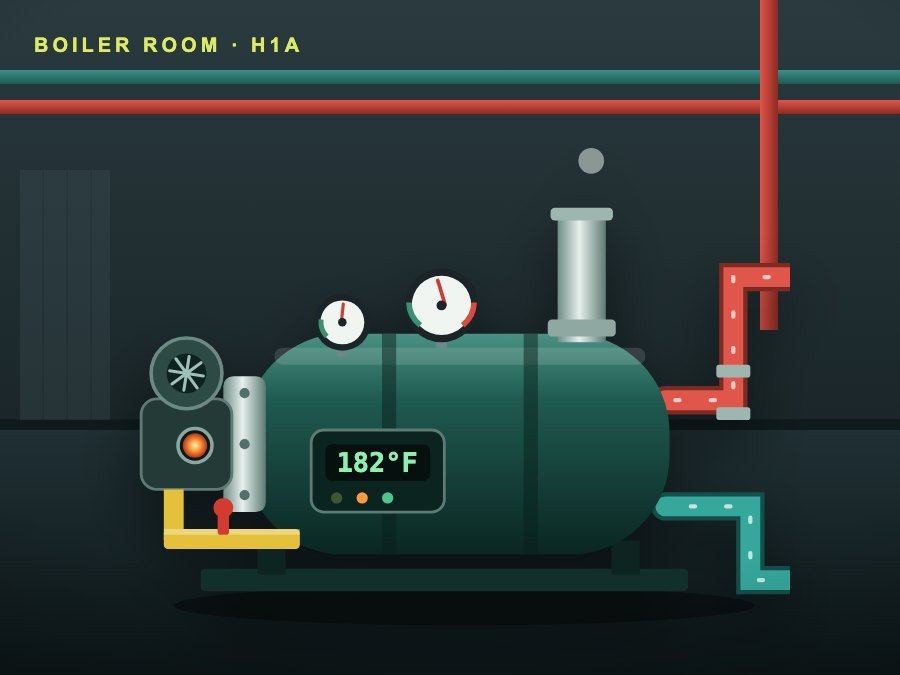
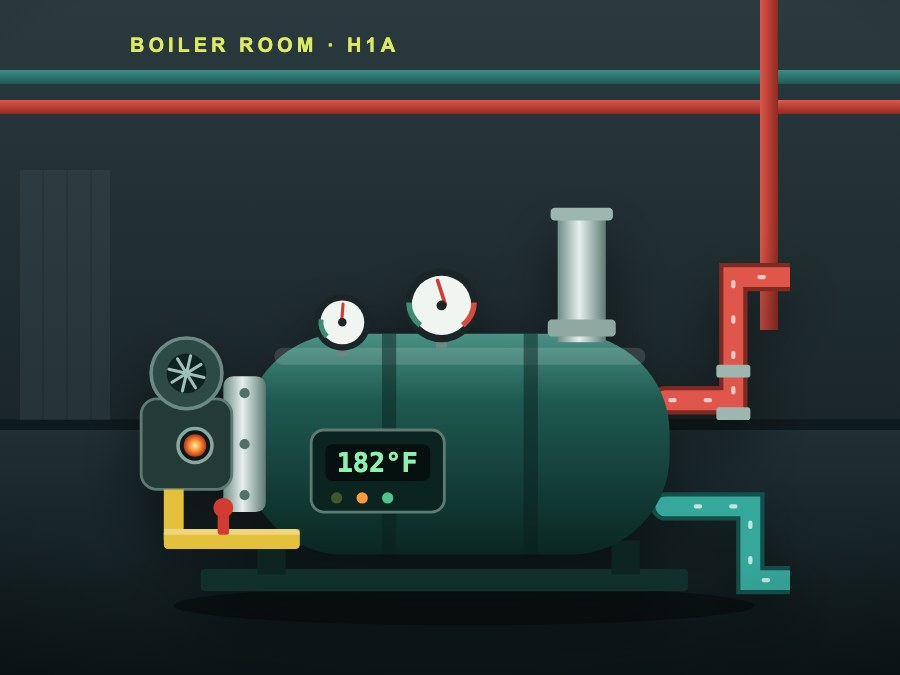
Fix glitching 3D photo: no overlapping surfaces, no stretching, no frozen steam

diff --git a/marketing/src/scene.js b/marketing/src/scene.js
@@ -199,12 +199,24 @@ export function createScene(canvas) {
   camera.add(polaroid);
   const card = new THREE.Mesh(new THREE.BoxGeometry(1.0, 1.25, 0.025), new THREE.MeshStandardMaterial({ color: 0xf6f7f2, roughness: 0.8 }));
   polaroid.add(card);
-  const photoMat = new THREE.MeshBasicMaterial({ color: 0x244e46 });
-  const photo = new THREE.Mesh(new THREE.PlaneGeometry(0.88, 0.88), photoMat);
-  photo.position.set(0, 0.1, 0.016);
+  // The photo and the caption strip must not overlap (two flat surfaces at the same depth
+  // flicker against each other), so there is a clear gap between them, and a small
+  // polygon offset keeps both stable in front of the card.
+  const PHOTO_W = 0.88;
+  const PHOTO_H = 0.84;
+  const photoMat = new THREE.MeshBasicMaterial({ color: 0x244e46, polygonOffset: true, polygonOffsetFactor: -1, polygonOffsetUnits: -1 });
+  const photo = new THREE.Mesh(new THREE.PlaneGeometry(PHOTO_W, PHOTO_H), photoMat);
+  photo.position.set(0, 0.13, 0.016);
   polaroid.add(photo);
   new THREE.TextureLoader().load("./shots/photo-boiler.jpg", (tex) => {
     tex.colorSpace = THREE.SRGBColorSpace;
+    // Crop (don't stretch): show the middle of the picture at the frame's own proportions.
+    const frameAspect = PHOTO_W / PHOTO_H;
+    const imageAspect = tex.image.width / tex.image.height;
+    if (imageAspect > frameAspect) {
+      tex.repeat.x = frameAspect / imageAspect;
+      tex.offset.x = (1 - tex.repeat.x) / 2;
+    }
     photoMat.map = tex;
     photoMat.color.set(0xffffff);
     photoMat.needsUpdate = true;
@@ -223,8 +235,8 @@ export function createScene(canvas) {
   cctx.fillText("43.6426° N, 79.3871° W · 18 m away", 24, 112);
   const capTex = new THREE.CanvasTexture(cap);
   capTex.colorSpace = THREE.SRGBColorSpace;
-  const caption = new THREE.Mesh(new THREE.PlaneGeometry(0.9, 0.264), new THREE.MeshBasicMaterial({ map: capTex }));
-  caption.position.set(0, -0.46, 0.016);
+  const caption = new THREE.Mesh(new THREE.PlaneGeometry(0.9, 0.264), new THREE.MeshBasicMaterial({ map: capTex, polygonOffset: true, polygonOffsetFactor: -1, polygonOffsetUnits: -1 }));
+  caption.position.set(0, -0.455, 0.016);
   polaroid.add(caption);
   polaroid.visible = false;
 
